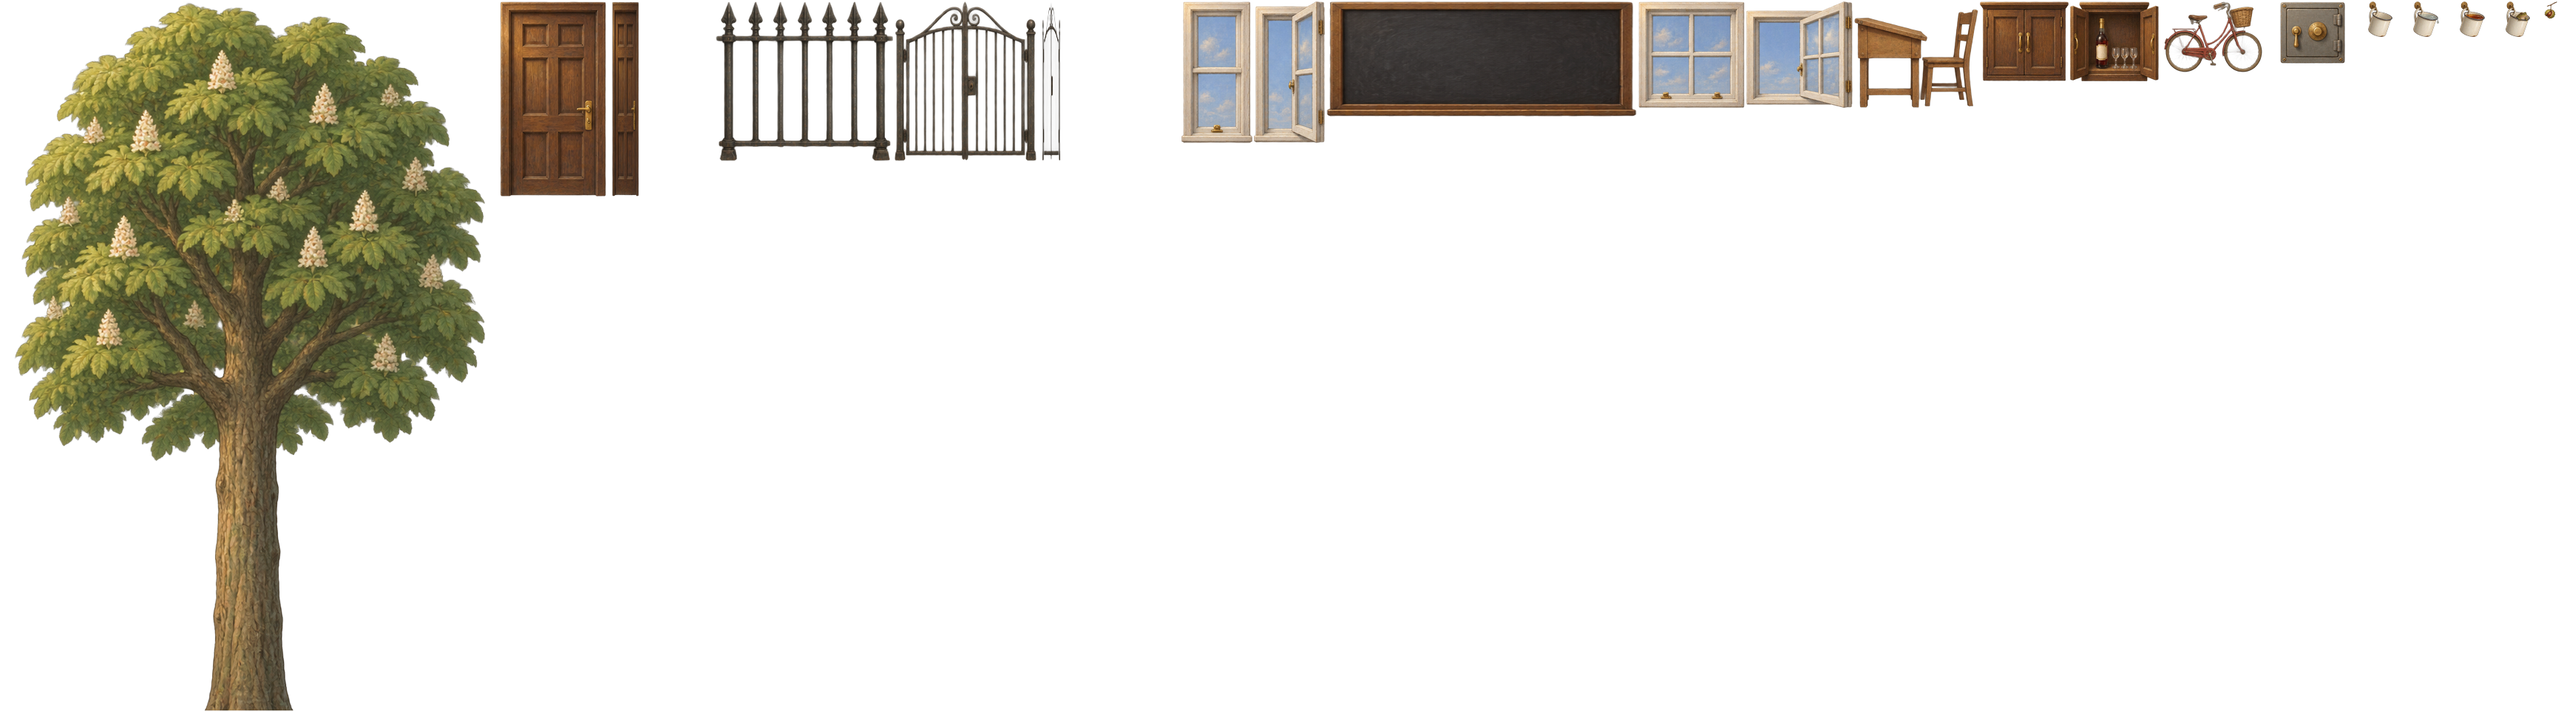
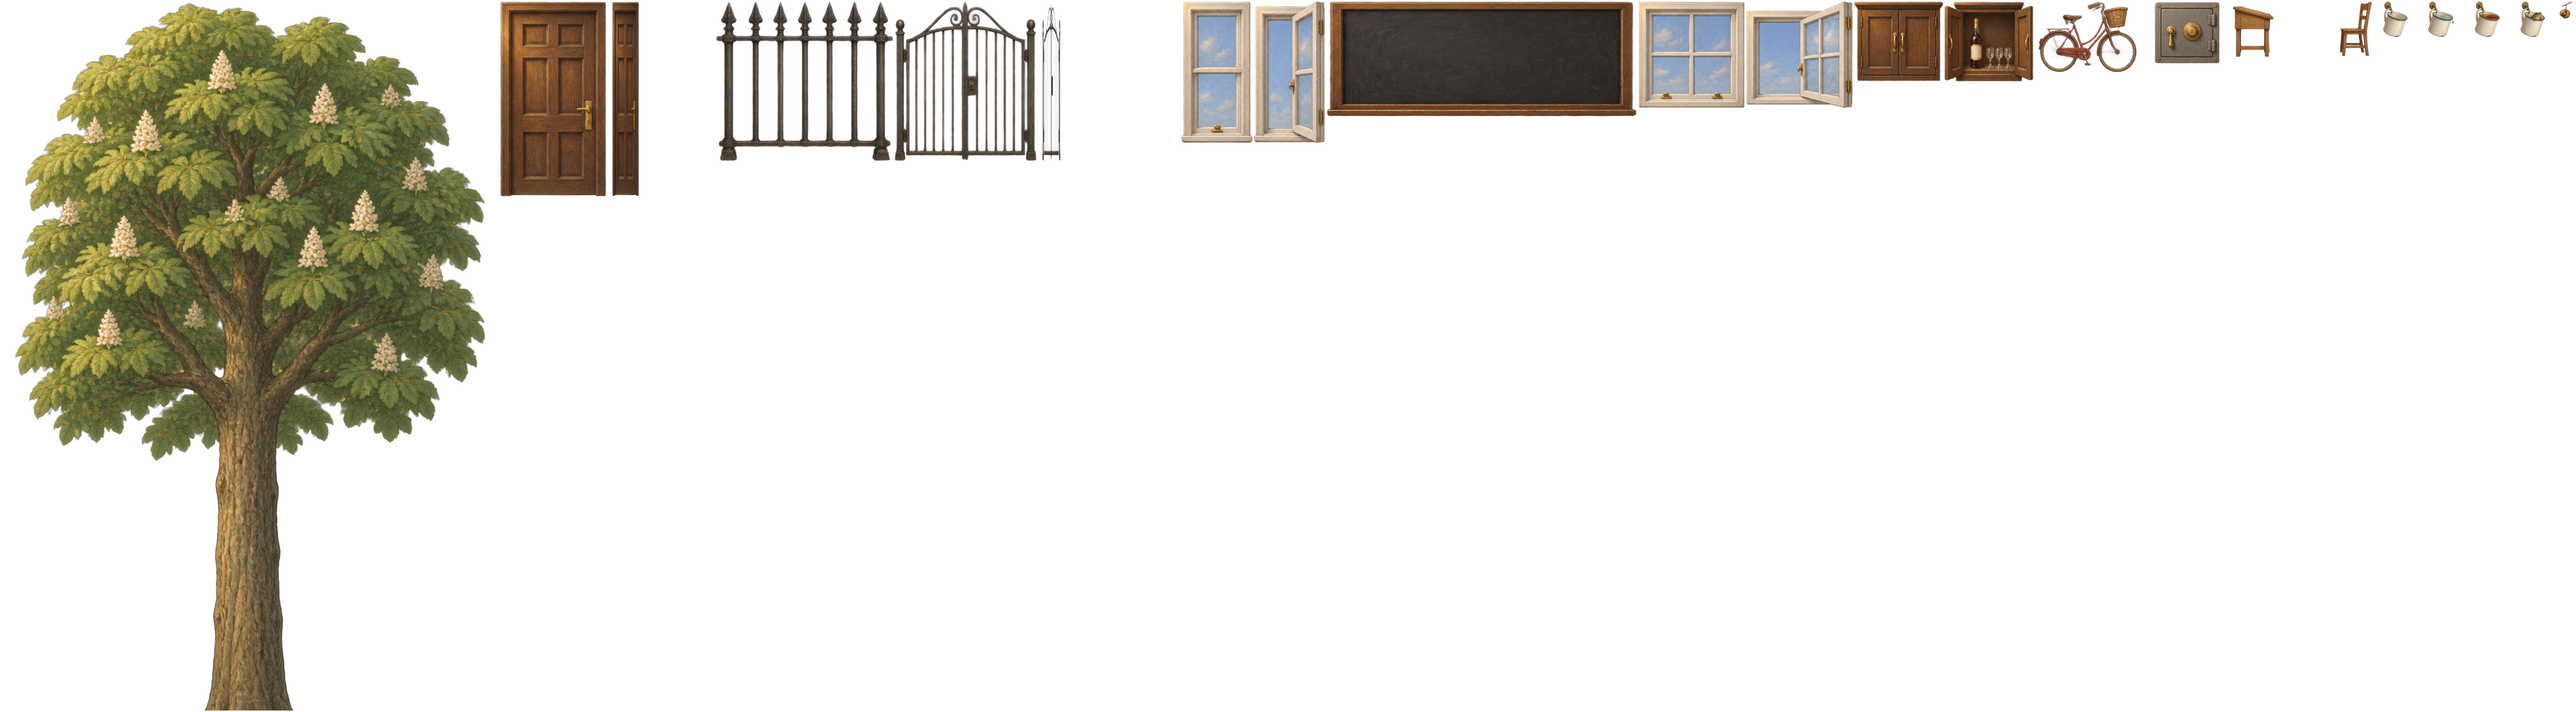
Modern view, pass 2: pupils sit at desks, depth lanes, readable speech and chalk
- Desks and chairs: the desk-and-chair picture is cut into two layers.
  Chairs are in the backdrop; desks are drawn after the people, so a seated
  pupil's knees go under the desk and walkers pass behind the row. The
  units are sized to the two-cell seat spacing, so rows no longer overlap,
  and an opened desk replaces the closed one exactly.
- Depth: walkers are spread over three lanes a little apart on each floor,
  drawn back to front, with Eric in the front lane.
- Speech: the whole sentence appears in a bubble above the speaker, revealed
  as the engine's own scroll advances, instead of sliding through a small
  window over the blackboard. Reprimands are cards. The engine's timing is
  unchanged.
- Chalk is written in a hand (Patrick Hand) within the line widths the
  engine already measured; wiped columns still clear.
- src/render/art/text.js holds the text drawing; the renderer draws people,
  then desks, then objects.

Claude-Session: https://claude.ai/code/session_01EMDvyUd3nesff2NM9yEVEq

diff --git a/src/render/art/text.js b/src/render/art/text.js
@@ -1,0 +1,109 @@
+// ============================================================================
+// SMOOTH TEXT (speech bubbles, reprimand boxes and chalk for the illustrated view)
+// ----------------------------------------------------------------------------
+// The engine still thinks in the Spectrum's 8-pixel font: it wraps blackboard
+// lines to fit the board and times a speech bubble by scrolling its words
+// through an eight-cell window. That timing is left alone. What changes here
+// is only what is DRAWN: the whole sentence at once in a proper bubble above
+// the speaker, revealed as the engine's scroll advances, in real type.
+//
+// Speech keeps its capitals, as comic lettering does.
+// ============================================================================
+
+export const UI_FONT = '"Ubuntu", system-ui, sans-serif';
+export const CHALK_FONT = '"Patrick Hand", "Ubuntu", system-ui, sans-serif';
+
+// Ask the browser to fetch the faces now, so the first bubble is not drawn in
+// a fallback font. Harmless if a face is missing: the next in the list is used.
+export function loadFonts() {
+  if (typeof document === 'undefined' || !document.fonts) return;
+  for (const f of [`400 20px ${UI_FONT}`, `300 20px ${UI_FONT}`, `400 20px ${CHALK_FONT}`]) document.fonts.load(f).catch(() => {});
+}
+
+// Break `text` into lines no wider than maxW for the context's current font.
+export function wrapText(ctx, text, maxW) {
+  const lines = [];
+  let line = '';
+  for (const word of text.split(/\s+/).filter(Boolean)) {
+    const next = line ? `${line} ${word}` : word;
+    if (line && ctx.measureText(next).width > maxW) { lines.push(line); line = word; } else line = next;
+  }
+  if (line) lines.push(line);
+  return lines;
+}
+
+export function roundedRect(ctx, x, y, w, h, r) {
+  ctx.beginPath();
+  ctx.moveTo(x + r, y); ctx.lineTo(x + w - r, y); ctx.quadraticCurveTo(x + w, y, x + w, y + r);
+  ctx.lineTo(x + w, y + h - r); ctx.quadraticCurveTo(x + w, y + h, x + w - r, y + h);
+  ctx.lineTo(x + r, y + h); ctx.quadraticCurveTo(x, y + h, x, y + h - r);
+  ctx.lineTo(x, y + r); ctx.quadraticCurveTo(x, y, x + r, y);
+  ctx.closePath();
+}
+
+// A speech bubble. `u` is the unit (canvas pixels per sixth of a Spectrum
+// pixel: 1 at scale 6), `mouth` the point the tail aims at, `view` the visible
+// strip {x0, x1} in canvas pixels, `progress` 0..1 how far the engine has
+// scrolled the words (they are fully shown by 55% so there is time to read).
+export function drawSpeech(ctx, text, mouth, view, progress, u) {
+  const size = Math.round(23 * u), lh = Math.round(29 * u), padX = Math.round(16 * u), padY = Math.round(11 * u);
+  ctx.save();
+  ctx.font = `400 ${size}px ${UI_FONT}`;
+  ctx.textBaseline = 'alphabetic'; ctx.textAlign = 'left';
+  try { ctx.letterSpacing = `${(0.4 * u).toFixed(1)}px`; } catch (e) { /* older browsers */ }
+  const lines = wrapText(ctx, text, 560 * u);
+  const w = Math.max(...lines.map((l) => ctx.measureText(l).width), 40 * u) + padX * 2;
+  const h = lines.length * lh + padY * 2 - Math.round(4 * u);
+  const tail = Math.round(14 * u);
+  let x = Math.max(view.x0 + 8 * u, Math.min(view.x1 - w - 8 * u, mouth.x - w / 2));
+  let y = Math.max(view.y0 + 6 * u, mouth.y - tail - h);
+  x = Math.round(x); y = Math.round(y);
+  const tipX = Math.max(x + 22 * u, Math.min(x + w - 22 * u, mouth.x));
+  const path = () => {
+    roundedRect(ctx, x, y, w, h, 16 * u);
+    ctx.moveTo(tipX - 10 * u, y + h - 1); ctx.lineTo(tipX + 2 * u * Math.sign(mouth.x - tipX || 1), y + h + tail); ctx.lineTo(tipX + 10 * u, y + h - 1); ctx.closePath();
+  };
+  ctx.fillStyle = 'rgba(20,24,34,0.28)'; ctx.translate(0, 4 * u); path(); ctx.fill(); ctx.translate(0, -4 * u);
+  ctx.fillStyle = '#fffdf6'; path(); ctx.fill();
+  ctx.lineWidth = Math.max(1, 1.5 * u); ctx.strokeStyle = 'rgba(38,44,60,0.75)'; ctx.lineJoin = 'round'; path(); ctx.stroke();
+  ctx.fillStyle = '#fffdf6'; ctx.fillRect(tipX - 9 * u, y + h - 2.5 * u, 18 * u, 3 * u);     // hide the outline where the tail joins
+  // The words, revealed as the engine's scroll advances.
+  const total = lines.reduce((n, l) => n + l.length, 0);
+  let budget = Math.ceil(total * Math.min(1, progress / 0.55));
+  ctx.fillStyle = '#1d2330';
+  lines.forEach((l, i) => {
+    if (budget <= 0) return;
+    ctx.fillText(l.slice(0, budget), x + padX, y + padY + size * 0.82 + i * lh);
+    budget -= l.length;
+  });
+  ctx.restore();
+}
+
+// A reprimand ("100 LINES ERIC") or a secret: a card in the colour of its kind.
+export function drawCard(ctx, lines, centre, view, colours, u) {
+  const size = Math.round(24 * u), lh = Math.round(31 * u), padX = Math.round(20 * u), padY = Math.round(12 * u);
+  ctx.save();
+  ctx.font = `400 ${size}px ${UI_FONT}`; ctx.textAlign = 'center'; ctx.textBaseline = 'alphabetic';
+  try { ctx.letterSpacing = `${(0.8 * u).toFixed(1)}px`; } catch (e) { /* older browsers */ }
+  const w = Math.max(...lines.map((l) => ctx.measureText(l).width), 120 * u) + padX * 2;
+  const h = lines.length * lh + padY * 2 - Math.round(5 * u);
+  const x = Math.round(Math.max(view.x0 + 8 * u, Math.min(view.x1 - w - 8 * u, centre.x - w / 2)));
+  const y = Math.round(Math.max(view.y0 + 8 * u, centre.y - h));
+  ctx.fillStyle = 'rgba(20,24,34,0.35)'; roundedRect(ctx, x + 3 * u, y + 5 * u, w, h, 12 * u); ctx.fill();
+  ctx.fillStyle = colours.paper; roundedRect(ctx, x, y, w, h, 12 * u); ctx.fill();
+  ctx.lineWidth = Math.max(1, 2 * u); ctx.strokeStyle = colours.edge; roundedRect(ctx, x, y, w, h, 12 * u); ctx.stroke();
+  ctx.fillStyle = colours.ink;
+  lines.forEach((l, i) => ctx.fillText(l, x + w / 2, y + padY + size * 0.82 + i * lh));
+  ctx.restore();
+}
+
+// Chalk on a blackboard: each line the engine has written so far, in a hand,
+// squeezed if need be into the width the engine measured for it.
+export function drawChalkLines(ctx, lines, x, y, lineH, maxW, colour, u) {
+  ctx.save();
+  ctx.font = `400 ${Math.round(lineH * 0.86)}px ${CHALK_FONT}`;
+  ctx.textAlign = 'left'; ctx.textBaseline = 'alphabetic';
+  ctx.fillStyle = colour; ctx.globalAlpha = 0.92;
+  lines.forEach((line, i) => ctx.fillText(line, x, y + lineH * (i + 0.8), maxW));
+  ctx.restore();
+}

diff --git a/src/render/art/illustrated.js b/src/render/art/illustrated.js
@@ -18,6 +18,8 @@ import { makeCanvas } from '../hd/pixelart.js';
 import { drawHdText, HD_LINE_HEIGHT } from '../hd/font.js';
 import { buildIllustratedBackdrop } from './backdrop.js';
 import { ART_SCALE } from './assets.js';
+import { DESK_UNIT } from './backdrop.js';
+import { loadFonts, drawSpeech, drawCard, drawChalkLines } from './text.js';
 import { drawIllustratedFurniture } from './furniture.js';
 
 const PIXEL_SCALE = 2;    // the pixel-art painter's scale; ours is three times that
@@ -31,6 +33,8 @@ export class IllustratedPainter extends ModernPainter {
     this.flips = new Map();         // frame key -> flipped copy
     this.stats = { drawn: 0, fallback: 0 };
     assets.onReady(() => { this.backdrop = null; });
+    this.view = { x0: 0, x1: 0, y0: 0, y1: 0 };   // the visible strip in canvas pixels, noted each frame
+    loadFonts();
   }
 
   setTheme(theme) { super.setTheme(theme); this.flips.clear(); }
@@ -94,7 +98,26 @@ export class IllustratedPainter extends ModernPainter {
   drawBackdrop(ctx, cam, viewW) {
     const S = this.scale, b = this.ensureBackdrop();
     const h = SKOOL.height * SKOOL.cell * S;
+    this.view = { x0: cam * S, x1: (cam + viewW) * S, y0: 0, y1: h };
     ctx.drawImage(b, cam * S, 0, viewW * S, h, cam * S, 0, viewW * S, h);
+  }
+
+  // Desks are drawn AFTER the people, so a seated pupil's knees go under the
+  // desk and anyone walking along the row passes behind it. (The chairs are
+  // in the backdrop, behind everyone.)
+  drawForeground(ctx) {
+    const f = this.assets.furniture('desk');
+    if (!f) return;
+    const S = this.scale, C = SKOOL.cell * S, u = S / 6;
+    for (const [roomId, xs] of Object.entries(SKOOL.desks)) {
+      const room = SKOOL.rooms.find((r) => r.id === roomId);
+      const floor = (room.bottomRight[1] + 1) * C;
+      for (const x of xs) {
+        const left = x * C + DESK_UNIT.dx * u;
+        if (left + f.w < this.view.x0 || left > this.view.x1) continue;
+        ctx.drawImage(f.img, f.x, f.y, f.w, f.h, Math.round(left), floor - f.h, f.w, f.h);
+      }
+    }
   }
 
   // ---- Furniture, chalk, bubbles, boxes --------------------------------------------
@@ -103,21 +126,40 @@ export class IllustratedPainter extends ModernPainter {
     this.drawChalk(ctx, game);
   }
 
-  // Chalk is the 2x font drawn through the 2x scale; a wiped column is
-  // restored from our own backdrop so the illustrated board comes back.
+  // Chalk in a hand. The engine wrapped each line to fit the board with the
+  // Spectrum font, so the lines always fit; a wiped column is restored from
+  // our own backdrop so the board shows through again.
   drawChalk(ctx, game) {
-    const S = this.scale, C = SKOOL.cell * S, b = this.ensureBackdrop();
+    const S = this.scale, C = SKOOL.cell * S, u = S / 6, b = this.ensureBackdrop();
     for (const room of game.world.rooms.values()) {
       const board = room.blackboard;
       if (!board || !board.lines.length) continue;
-      this.atPixelScale(ctx, () => {
-        const x = board.x * SKOOL.cell * PIXEL_SCALE, y = board.y * SKOOL.cell * PIXEL_SCALE;
-        board.lines.forEach((line, i) => drawHdText(ctx, line, x + 4, y + 4 + i * HD_LINE_HEIGHT, this.theme.chalk));
-      });
       const x = board.x * C, y = board.y * C;
+      drawChalkLines(ctx, board.lines, x + 8 * u, y + 2 * u, C * 0.96, board.width * C - 16 * u, this.theme.chalk, u);
       for (const col of board.wipedColumns) ctx.drawImage(b, x + col * C, y, C, board.height * C, x + col * C, y, C, board.height * C);
     }
   }
-  drawBubble(ctx, c) { this.atPixelScale(ctx, () => super.drawBubble(ctx, c)); }
-  drawMessageBox(ctx, box, cam, viewW) { this.atPixelScale(ctx, () => super.drawMessageBox(ctx, box, cam, viewW)); }
+
+  // The whole sentence in a bubble above the speaker (see art/text.js).
+  // `pos` is where the speaker is drawn, in game pixels.
+  drawBubble(ctx, c, pos) {
+    const S = this.scale, u = S / 6, b = c.bubble;
+    const [px, py] = pos || [c.x * SKOOL.cell, c.y * SKOOL.cell];
+    const text = String(b.words).trim();
+    if (!text) return;
+    // How far the engine has scrolled the words through its own little window.
+    const total = text.length * 6 + 64;                       // roughly: text width plus the window, in Spectrum pixels
+    const progress = Math.max(0, Math.min(1, ((b.shift + 8) * 8) / total));
+    const headTop = c.isAdult?.() ? 8 : (c.isSitting?.() ? 80 : 54);          // sixths of a pixel below the top of the box
+    const mouth = { x: (px + 12 + 5 * c.direction) * S, y: py * S + (headTop - 6) * u };
+    drawSpeech(ctx, text, mouth, this.view, progress, u);
+  }
+
+  drawMessageBox(ctx, box, cam, viewW) {
+    const S = this.scale, C = SKOOL.cell * S, u = S / 6, t = this.theme;
+    const paper = box.paper === 'eric' ? t.boxEric : box.paper === 'other' ? t.boxOther : box.paper === 'alarm' ? t.boxAlarm : t.boxSecret;
+    const ink = box.paper === 'alarm' ? t.boxInkAlarm : t.boxInk;
+    const view = { x0: 0, x1: viewW * S, y0: 0 };
+    drawCard(ctx, box.lines, { x: (box.x * SKOOL.cell - cam + 4) * S, y: box.y * C - 10 * u }, view, { paper, ink, edge: this.hd.boxEdge }, u);
+  }
 }

diff --git a/src/render/renderer.js b/src/render/renderer.js
@@ -26,6 +26,9 @@ export { originalMeasure, originalFontHas };
 
 const C = SKOOL.cell;
 const SPRITE_W = 24, SPRITE_H = 32;   // a sprite frame in game pixels (3 x 4 cells)
+const LANE_STEP = 0.75;               // game pixels between depth lanes on a floor
+const FLOOR_ROWS = new Set(SKOOL.floors.map((f) => f.y));
+const laneHash = (id) => { let h = 0; for (const ch of String(id)) h = (h * 31 + ch.charCodeAt(0)) >>> 0; return h; };
 
 export class Renderer {
   constructor(canvas, game, options = {}) {
@@ -116,6 +119,24 @@ export class Renderer {
     this.game.setVisibleColumns(from, to);
   }
 
+  // Depth on a flat floor. Everyone in the game stands on the same line, so a
+  // crowd used to pile into one blob. Walkers are given one of three lanes a
+  // little apart (the further lanes drawn first), which separates feet and
+  // shadows; Eric takes the front lane so he is never hidden. Anyone sitting,
+  // lying or on the stairs moves to the back line, where chairs and steps are.
+  laneOf(d, m, dt) {
+    const onFloor = Number.isInteger(d.y) && FLOOR_ROWS.has(d.y);
+    let want = 0;
+    if (m.walkState && onFloor && !d.staircase) {
+      want = d === this.game.cast.eric ? 2 : (d.isAdult?.() ? 1 : laneHash(d.id) % 3);
+    }
+    const tr = this.motion.tracks.get(d.id);
+    if (tr.lane === undefined) tr.lane = want;
+    tr.lane += (want - tr.lane) * (1 - Math.exp(-dt / 140));
+    if (Math.abs(tr.lane - want) < 0.02) tr.lane = want;
+    return tr.lane;
+  }
+
   // Where a thing is drawn this frame, in game pixels (see render/motion.js).
   spritePos(thing) {
     const m = this.motion.sample(thing, this.options.smoothMotion);
@@ -131,7 +152,7 @@ export class Renderer {
   draw(now = performance.now()) {
     const { ctx, game, theme } = this;
     const dt = Math.max(0, Math.min(100, now - this.lastDraw));
-    this.lastDraw = now;
+    this.lastDraw = now; this.frameDt = dt;
     this.motion.begin(now, 1000 / (game.config.ticksPerSecond * (this.options.gameSpeed || 1)));
     this.updateCamera(dt);
     this.ensureScale();
@@ -183,10 +204,20 @@ export class Renderer {
     p.drawFurniture(ctx, game);
     const viewFrom = cam - 48, viewTo = cam + viewW + 48;
     const cycles = !!p.hasCycle;                // only the illustrated painter has walk cycles
+    const dt = this.frameDt || 0;
+
+    // People first, back lane to front lane, then whatever stands in front of
+    // them (desks), then objects (pellets, water, the frog...) on top.
+    const people = [], objects = [];
     for (const d of game.cast.drawables) {
       if (!d.visible || d.x * C + SPRITE_W < viewFrom || d.x * C > viewTo) continue;
       const m = this.motion.sample(d, this.options.smoothMotion);
-      const x = m.x * C, y = m.y * C;
+      if (d.group === 'OBJ') objects.push({ d, m, lane: 0 });
+      else people.push({ d, m, lane: p.smooth ? this.laneOf(d, m, dt) : 0 });
+    }
+    people.sort((a, b) => a.lane - b.lane);     // stable: equal lanes keep the engine's order (Eric last)
+    const drawOne = ({ d, m, lane }) => {
+      const x = m.x * C, y = m.y * C + lane * LANE_STEP;
       if (d.group !== 'OBJ' && d.isStanding?.()) p.drawShadow(ctx, x, y);
       // Which picture: the walk cycle while gliding, the standing pose at
       // rest, otherwise whatever pose the engine says.
@@ -202,8 +233,11 @@ export class Renderer {
         ctx.drawImage(getSprite(d.group, d.animatoryState, d.direction, d.look), Math.round(x * S), Math.round(y * S), SPRITE_W * S, SPRITE_H * S);
       }
       ctx.globalAlpha = 1;
-    }
-    for (const c of game.cast.characterList) if (c.bubble) p.drawBubble(ctx, c);
+    };
+    people.forEach(drawOne);
+    if (p.drawForeground) p.drawForeground(ctx, game);
+    objects.forEach(drawOne);
+    for (const c of game.cast.characterList) if (c.bubble) p.drawBubble(ctx, c, this.spritePos(c));
     ctx.restore();
     if (game.messageBox) p.drawMessageBox(ctx, game.messageBox, cam, viewW);
     if (this.options.retroStatus) { ctx.save(); ctx.scale(S, S); this.drawStatus(); ctx.restore(); }

diff --git a/src/render/art/backdrop.js b/src/render/art/backdrop.js
@@ -22,13 +22,19 @@ import { paintBase, paintStructure, zoneRect } from '../hd/backdrop.js';
 
 const PIXEL_SCALE = 2;
 
+// A desk and its chair are one picture cut into two layers of the same size
+// (tools/art/build.py split_desk). `dx` is how far right of the pupil's box
+// the picture starts, in sixths of a Spectrum pixel, chosen so the chair seat
+// is under a seated pupil and the desk in front of their knees.
+export const DESK_UNIT = { dx: 19 };
+
 export function buildIllustratedBackdrop(theme, S, assets) {
   const C = SKOOL.cell * S, P = PIXEL_SCALE, up = S / P;
   const u = S / 4;                               // sizes below were first measured at scale 4
   const W = SKOOL.width * C, H = SKOOL.height * C;
   const canvas = makeCanvas(W, H);
   const ctx = canvas.getContext('2d');
-  const hasBoards = !!assets.furniture('blackboard'), hasDesks = !!assets.furniture('desk');
+  const hasBoards = !!assets.furniture('blackboard'), hasDesks = !!assets.furniture('chair');
   const hasTree = !!assets.furniture('tree'), hasRailings = !!assets.furniture('railing');
 
   // 1. The pixel base, enlarged crisply.
@@ -70,11 +76,13 @@ export function buildIllustratedBackdrop(theme, S, assets) {
     }
   }
   if (hasDesks) {
-    const f = assets.furniture('desk');
+    // Only the chairs: the desks are drawn each frame in front of the pupils
+    // (IllustratedPainter.drawForeground).
+    const f = assets.furniture('chair');
     for (const [roomId, xs] of Object.entries(SKOOL.desks)) {
       const room = SKOOL.rooms.find((r) => r.id === roomId);
       const floor = (room.bottomRight[1] + 1) * C;
-      for (const x of xs) stamp(f, x * C - 40 * u, floor - 96 * u, 112 * u, 96 * u);
+      for (const x of xs) stamp(f, x * C + DESK_UNIT.dx * (S / 6), floor - f.h, f.w, f.h);
     }
   }
   if (hasRailings) {

diff --git a/index.html b/index.html
@@ -6,7 +6,7 @@
   <title>Back to Skool</title>
   <meta name="description" content="A faithful, moddable browser remake of the 1985 ZX Spectrum game Back to Skool.">
   <link rel="preconnect" href="https://fonts.googleapis.com">
-  <link href="https://fonts.googleapis.com/css2?family=Ubuntu:wght@300;400&display=swap" rel="stylesheet">
+  <link href="https://fonts.googleapis.com/css2?family=Ubuntu:wght@300;400&family=Patrick+Hand&display=swap" rel="stylesheet">
   <link rel="stylesheet" href="styles.css">
 </head>
 <body>

diff --git a/tools/art/build.py b/tools/art/build.py
@@ -122,8 +122,27 @@ def build_furniture(job, manifest, sizes):
             continue
         d = os.path.join(WORK, 'furniture'); os.makedirs(d, exist_ok=True)
         cell.save(os.path.join(d, key.replace(':', '_') + '.raw.png'))
+        if key == 'desk':
+            frames.update(split_desk(cell, round(sizes[key]['w'] * U), round(sizes[key]['h'] * U)))
+            continue
         frames[key] = fit_into(cell, round(sizes[key]['w'] * U), round(sizes[key]['h'] * U), FIT.get(key, 'bottom'))
     return frames
+
+
+def split_desk(cell, w, h):
+    """The desk-and-chair picture becomes two layers the same size: the chair
+    (drawn behind a seated pupil) and the desk (drawn in front). The desk is
+    everything left of the chair: the left 60% above seat height, and the left
+    53% below it, where the chair's front leg tucks under the desk top."""
+    import numpy as np
+    a = np.array(cell)
+    H, W = a.shape[:2]
+    xs, ys = np.meshgrid(np.arange(W), np.arange(H))
+    is_desk = (xs < 0.60 * W) & ((ys < 0.46 * H) | (xs < 0.535 * W))
+    desk, chair = a.copy(), a.copy()
+    desk[..., 3] = np.where(is_desk, a[..., 3], 0)
+    chair[..., 3] = np.where(is_desk, 0, a[..., 3])
+    return {'desk': Image.fromarray(desk).resize((w, h), Image.LANCZOS), 'chair': Image.fromarray(chair).resize((w, h), Image.LANCZOS)}
 
 
 def derive_open(frames, sizes):
@@ -198,15 +217,23 @@ def build_objects(job, manifest, footprints, extra=None):
             continue
         d = os.path.join(WORK, 'objects'); os.makedirs(d, exist_ok=True)
         cell.save(os.path.join(d, f'{state}.raw.png'))
-        frames[state] = place_object(cell, footprints[state], OBJECT_ANCHOR.get(state, 'bottom'))
+        frames[state] = place_object(cell, footprints[state], OBJECT_ANCHOR.get(state, 'bottom'), state)
     return frames
 
 
-def place_object(cell, fp, anchor):
+# The open desk replaces the closed desk picture exactly, so it gets its own
+# rectangle (x, y, w, h in sixths of a Spectrum pixel inside the 3 x 4 cell
+# box) instead of the pixel art's footprint. See art/backdrop.js DESK_UNIT.
+OBJECT_RECT = {'DESK_EMPTY': (67, 96, 58, 96), 'DESK_WATER_PISTOL': (67, 96, 58, 96), 'DESK_STINKBOMBS': (67, 96, 58, 96)}
+
+
+def place_object(cell, fp, anchor, state=None):
     """Fit a cut-out into its doubled footprint inside the box; return
     (trimmed image, ox, oy) in the manifest's frame convention."""
     k = SCALE // 2                                  # footprints are in pixel-art pixels (scale 2)
     rx, ry, rw, rh = fp['x'] * k, fp['y'] * k, fp['w'] * k, fp['h'] * k
+    if state in OBJECT_RECT:
+        rx, ry, rw, rh = (round(v * SCALE / 6) for v in OBJECT_RECT[state])
     f = min(rw / cell.size[0], rh / cell.size[1])
     sw, sh = max(1, round(cell.size[0] * f)), max(1, round(cell.size[1] * f))
     small = cell.resize((sw, sh), Image.LANCZOS)
